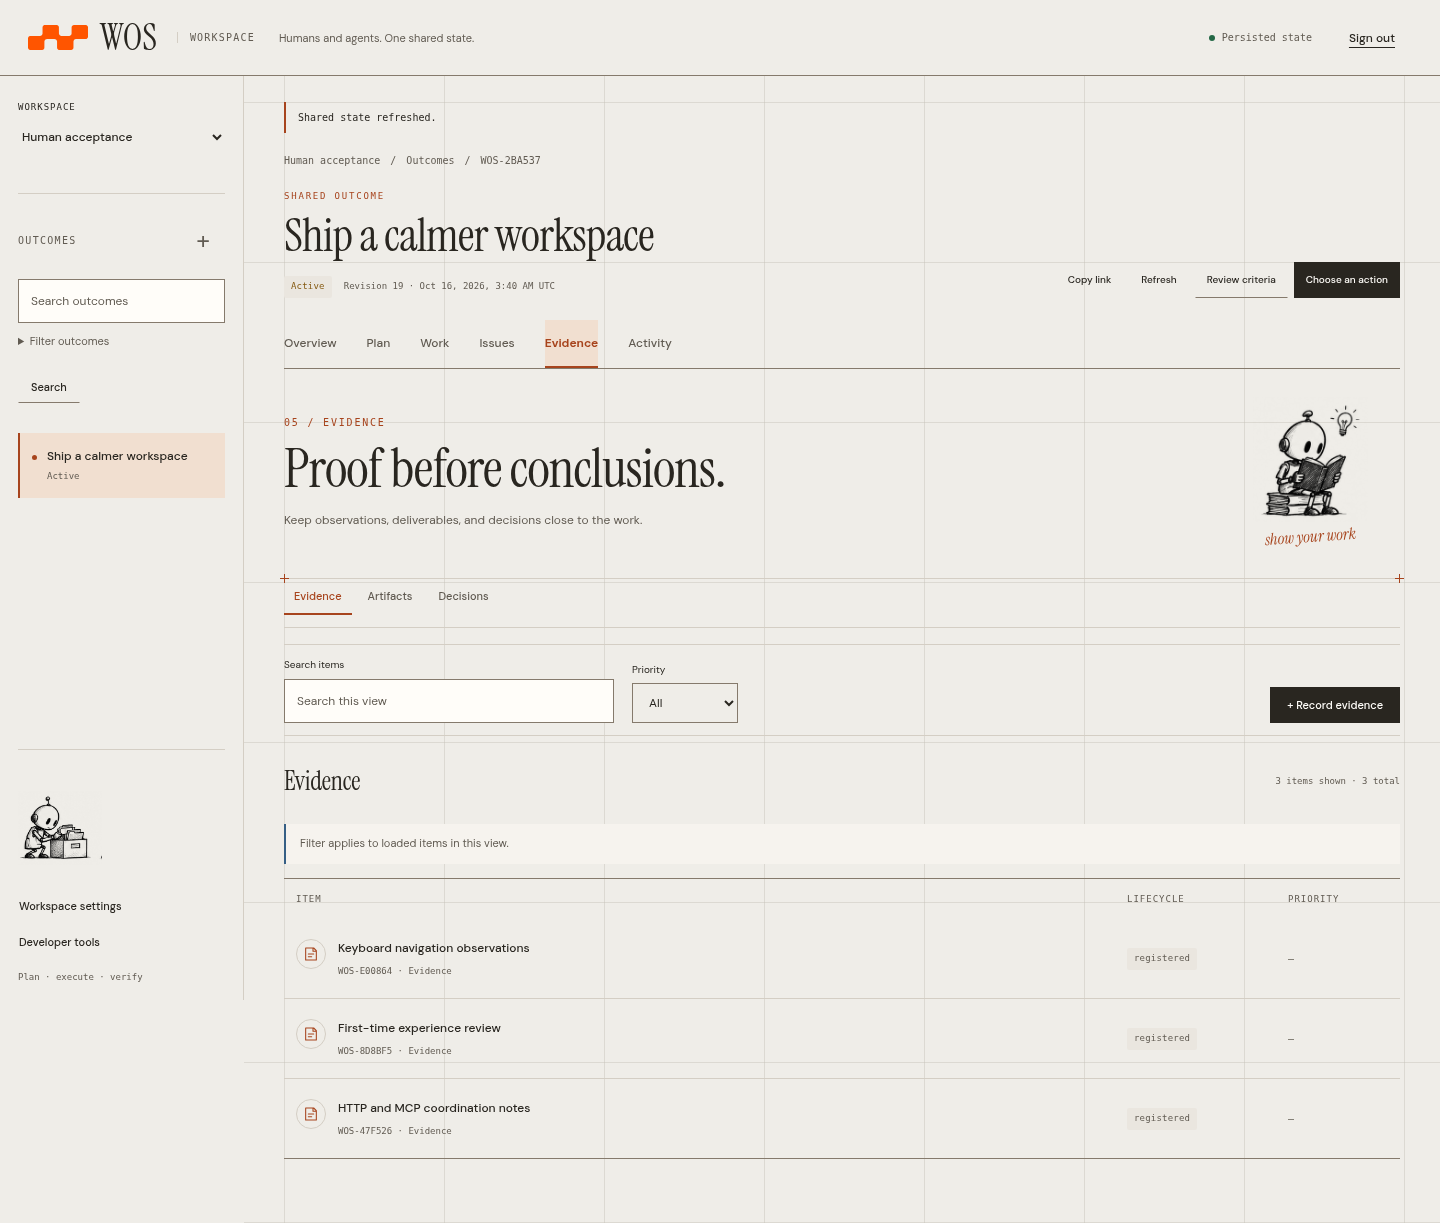
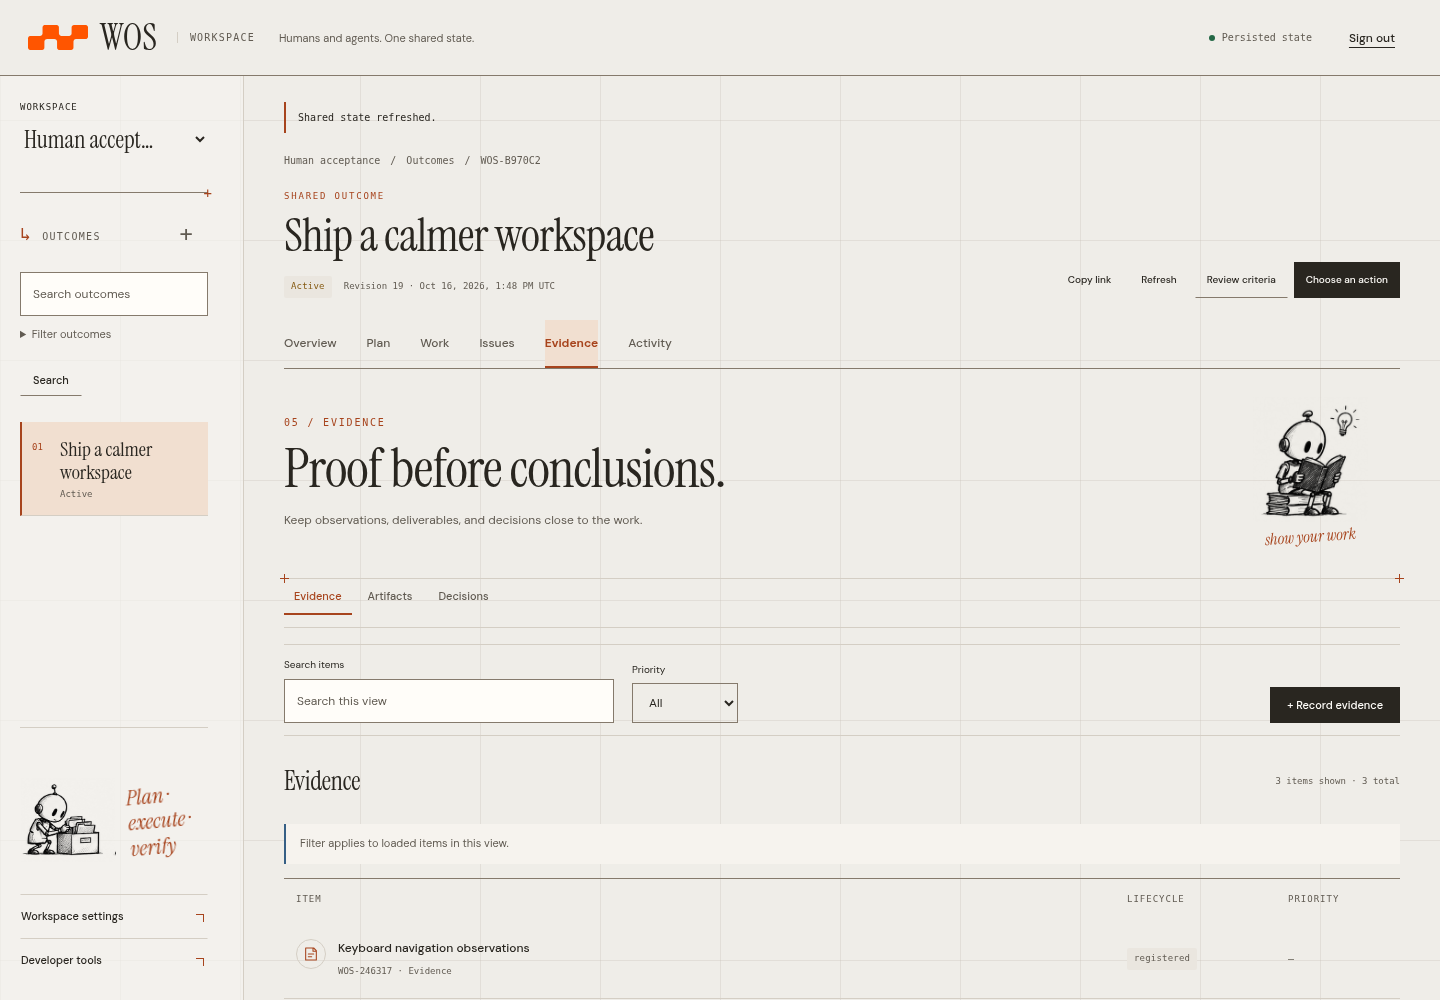
docs(design): refresh fixed-paper and sidebar captures

diff --git a/docs/design/editorial/validation.md b/docs/design/editorial/validation.md
@@ -1,6 +1,6 @@
 # Editorial workspace validation
 
-Validated locally on 2026-10-16 (America/Sao_Paulo), against a built native WOS server and isolated SQLite databases. Tooling: Go 1.27.2, Node 24.19.0, locked Playwright 1.62.1, and Chromium 154.0.8037.57 on Linux amd64.
+Validated locally on 2026-10-16 (UTC), against a built native WOS server and isolated SQLite databases. Tooling: Go 1.27.2, Node 24.19.0, locked Playwright 1.62.1, and Chromium 154.0.8037.57 on Linux amd64.
 
 ## Executed checks
 
@@ -8,7 +8,8 @@ Validated locally on 2026-10-16 (America/Sao_Paulo), against a built native WOS 
 | --- | --- | --- |
 | Native server build | Passed | `go build -p 4 -trimpath -o bin/wos ./packages/wos-api/cmd/wos`; embeds fonts, CSS, JS, grid, robots, and the WOS brand library |
 | Browser unit tests | 14 passed | Action permissions, exact-intent handling, official copy, and six-area routing; the locale gate now includes `editorial.js` |
-| Complete browser suite | 38 passed, no skips | Includes six editorial/palette/brand/component tests and the 32 existing browser journeys |
+| Complete browser suite | 39 passed, no skips | Includes seven editorial/palette/brand/component tests and the 32 existing browser journeys; the fixed-paper regression also passed after adding dialog-scroll coverage |
+| Fixed grid and sidebar | Passed | Compare visible paper pixels across 173 px of real scrolling at 1440/390 px widths; confirm content movement, stationary desktop sidebar, and document-relative reduced-motion fallback. Scroll a settings body without moving its grid. Select a long mobile Outcome by keyboard, then reach settings through a 15-Outcome desktop sidebar |
 | Woobe palette | Passed | All 25 Light color tokens match the supplied README; browser assertions cover canvas, copper text/focus, charcoal primary/hover, selection, success, warning, and error roles |
 | Supplied WOS brand | Passed | 94 media files preserved byte for byte; all 80 SVGs retain the master path. Browser checks verify the undistorted symbol and live WOS name in Instrument Serif regular, matching editorial headings at 1440/390/320 px. Exactly one on-page brand image is present, including during a pending read. All six area labels and the no-JavaScript product mention are checked. Declared SVG/PNG/ICO/Apple icons decode and the compatibility favicon matches |
 | Nested forms and complete controls | Passed | At 1440 × 1000, 390 × 844, 320 × 740, landscape 740 × 390, and 768 × 1024 with a 28 px root font: measure full border/focus clearance against the scrolling body, hit testing, footer overlap, outer-dialog scrolling, control height, and page width. Exercise selects, keyboard reference selection, expanded instructions, repeatable rows, date input, permission checkbox, credential text field, persistent actions, and real Task save/detail |
@@ -21,11 +22,11 @@ Validated locally on 2026-10-16 (America/Sao_Paulo), against a built native WOS 
 | Static analysis | Passed | `go vet -p 4` on the same three affected packages |
 | Skill package | Passed in the earlier setup run | `scripts/validate_package.py`: structure, 62 tokens, 10 study crops, internal links, token output, and package hashes; the package is unchanged in this refinement |
 | Git whitespace | Passed | `git diff --check` |
-| Main-page gallery | 18 actual captures | Refreshed main pages and pending read, plus expanded instructions, action menu, mobile Task form, and mobile settings; [gallery](README.md#main-pages) and [capture/source hashes](screenshots.json) |
+| Main-page gallery | 21 actual viewport captures | Refreshed main pages, pending read, expanded instructions, action menu, mobile Task form/settings, paired document-scroll states, and expanded mobile Outcome navigation; [gallery](README.md#main-pages) and [capture/source hashes](screenshots.json) |
 
 The gallery was generated by `editorial.spec.mjs` through public commands against a fresh database. It contains synthetic example titles and state, with no user credentials or external customer data. The chapter capture test checks loaded artwork and unexpected console/page errors. The signed-out namespace discovery's expected 401 is distinguished from an asset or application failure.
 
-The current gallery combines the approved editorial composition, Woobe Light colors, one supplied WOS symbol, and the owner's requested editorial typography for the name. The [component review](component-review.md) records the top-down analysis and clipping diagnosis. Page captures use full-page output; open dialogs use viewport captures so that the backdrop, body, and footer match the visible interface. The palette README is archived byte for byte in [woobe-palette-source.md](woobe-palette-source.md), with separate [brand provenance](brand-kit/README.md). Robot, brand, and font bytes remain unchanged. Build, the three targeted Go package tests, and vet were repeated after the component refinement. The broader Go suite below records the earlier complete run; it was not repeated for these presentation refinements.
+The current gallery combines the approved editorial composition, Woobe Light colors, one supplied WOS symbol, and the owner's requested editorial typography for the name. The [component review](component-review.md) records the top-down analysis, clipping diagnosis, and fixed-paper/sidebar follow-up. All captures use the actual viewport so the grid, sidebar, backdrop, body, and footer match the visible interface at that scroll position. The palette README is archived byte for byte in [woobe-palette-source.md](woobe-palette-source.md), with separate [brand provenance](brand-kit/README.md). Robot, brand, and font bytes remain unchanged. Build, the three targeted Go package tests, and vet were repeated after the grid/sidebar refinement. The broader Go suite below records the earlier complete run; it was not repeated for these presentation refinements.
 
 ## Broader Go suite: original baseline and CI repair
 
@@ -42,7 +43,7 @@ The subsequent CI repair requested by the owner isolates the test's virtual time
 
 ## Limits
 
-- The 38 browser tests passed together in the final component refinement run. An earlier stale-cursor test encountered a timing failure during the original redesign and then passed in isolation and subsequent complete runs; its assertions and production reference-picker logic were preserved.
+- The 39 browser tests passed together in the grid/sidebar refinement run. An earlier stale-cursor test encountered a timing failure during the original redesign and then passed in isolation and subsequent complete runs; its assertions and production reference-picker logic were preserved.
 - Chromium/Linux automation and the listed viewport matrix do not certify other browser engines, physical devices, production deployment, or PostgreSQL parity.
 - Screen-reader evaluation, representative-user review, visual approval by the owner, and full manual accessibility acceptance remain pending.
 - Authored text in other scripts uses system fallbacks; the vendored Latin fonts match the official English interface.

diff --git a/docs/design/editorial/README.md b/docs/design/editorial/README.md
@@ -8,7 +8,8 @@ This is a presentation change to the six existing areas, authentication screen, 
 
 | Element | Meaning and implementation | Small screens |
 | --- | --- | --- |
-| Paper and grids | Woobe canvas `#EFEDE8`, workspace `#F5F3EF`, surface `#FFFDF9`, and elevated surface `#FFFEFC`; continuous 160 px graphic grid `#C2BCB2`, independent of structural columns | Continuous paper and grid; connected sections become one ordered column |
+| Paper and grids | Woobe canvas `#EFEDE8`, workspace `#F5F3EF`, surface `#FFFDF9`, and elevated surface `#FFFEFC`; viewport-fixed 120 px graphic grid `#C2BCB2`, independent of structural columns | The same fixed paper under normal scrolling; connected sections become one ordered column |
+| Sidebar | Serif workspace selector and Outcome titles, decorative numbered entries, ruled selection, registration mark, and organizer robot with an italic note | Compact workspace selector and existing collapsible, horizontally scrolling Outcome navigation; the larger vignette stays on desktop |
 | Display | Instrument Serif, regular and italic; large on the login, restrained inside the operational workspace | Recomposed headlines that wrap; no horizontal type scaling |
 | Utility type | DM Sans variable for controls; system monospace for metadata | Relative font sizes; readable controls and visible focus |
 | Interaction | Copper `#A7441D` for links, relevant accents, and keyboard focus; selected surface `#F1DFD0` | Same roles, with explicit selected states |
@@ -19,7 +20,7 @@ This is a presentation change to the six existing areas, authentication screen, 
 | Robot vignettes | User-supplied monochrome pen-and-ink illustrations; each chapter has a relevant action | Smaller, reserved space alongside the introduction |
 | Marginal notes | Brief italic annotations attached to the illustrations | Remain decorative and outside control hit areas |
 | Forms and details | Gridded heading, small ink vignette, one scrolling body, persistent actions, complete control borders, and inset copper field focus | Related fields stack; close and save stay visible as nested content expands |
-| Motion | A small decorative arrival; content is visible in its final composition immediately | No parallax or pinned scrolling; reduced motion disables animation |
+| Motion | Content scrolls over a stationary grid; a small decorative arrival | Native scrolling without listeners or pinning; reduced motion makes the grid move with the document and disables animation |
 
 The application uses the grammar of the style rather than a literal chess theme. Its operational tables and forms keep their practical density. Instrument Serif is a deliberate font selection, not a claim about the unidentified font in the style reference.
 
@@ -37,7 +38,7 @@ The header combines the original orange symbol with WOS rendered as live Instrum
 
 ### Component refinement
 
-The [page-to-control review](component-review.md) records the clipping diagnosis and the revised hierarchy. The grid now spans the actual workspace and outer sign-in margins. Connected overview columns, registration marks, small form/settings vignettes, and ruled disclosures extend the style into working components. Command forms, settings, and detail drawers share a single scrolling content region between their heading and actions. Field labels and help use consistent spacing; related selects and permission checkboxes reflow as groups.
+The [page-to-control review](component-review.md) records the clipping diagnosis and the revised hierarchy. One fixed, non-interactive grid layer spans the page behind sign-in, workspace, and the translucent sidebar. Dialog backgrounds keep the same viewport alignment while their bodies scroll. Connected overview columns, registration marks, small form/settings vignettes, and ruled disclosures extend the style into working components. Command forms, settings, and detail drawers share a single scrolling content region between their heading and actions. Field labels and help use consistent spacing; related selects and permission checkboxes reflow as groups.
 
 Typography is served from the WOS binary. Vendored fonts are from `@fontsource/instrument-serif@5.3.0` and `@fontsource-variable/dm-sans@5.3.0`, distributed under the SIL Open Font License with notices in `packages/wos-api/web/assets/fonts/`. No browser request to a font service is required, and no production JavaScript package was added.
 
@@ -63,7 +64,7 @@ All these illustrations repeat a meaning already present in adjacent text and ha
 
 ## Main pages
 
-These 18 captures use a real local server and an isolated illustrative database. The demo's records are created through public commands. They are examples, not product metrics, customer evidence, or release certification. Desktop viewports are 1440 × 1000 CSS px and mobile viewports are 390 × 844. Pages use full-page output; open dialogs use viewport output to show their actual backdrop, scroll region, and persistent actions.
+These 21 captures use a real local server and isolated illustrative databases. The demo's records are created through public commands. They are examples, not product metrics, customer evidence, or release certification. Desktop viewports are 1440 × 1000 CSS px and mobile viewports are 390 × 844. All captures show the actual viewport, including fixed layers, scroll regions, and persistent actions. Pages continue below the captured opening view.
 
 ### Sign in
 
@@ -122,6 +123,16 @@ These 18 captures use a real local server and an isolated illustrative database.
 The observer vignette accompanies the existing pending server request. This capture holds that response in the test fixture; the application adds no deliberate waiting period.
 
 ![Observer robot during an actual pending Outcome read](screenshots/14-outcome-loading.png)
+
+### Fixed paper and editorial navigation
+
+These two viewport captures show the same workspace before and after scrolling 173 px. The content moves while the grid lines and desktop sidebar keep their viewport positions. The extra Outcomes are illustrative records, not invented product features. With reduced motion, the grid follows the document instead.
+
+| Before scrolling | After scrolling |
+| --- | --- |
+| ![Workspace at the top with three Outcomes and the editorial sidebar](screenshots/19-fixed-paper-top.png) | ![Workspace scrolled over the same stationary grid](screenshots/20-fixed-paper-scrolled.png) |
+
+![Expanded mobile Outcome navigation with a long title brought into view](screenshots/21-mobile-outcome-navigation.png)
 
 ## Reproduce and validate
 

diff --git a/docs/design/editorial/component-review.md b/docs/design/editorial/component-review.md
@@ -22,7 +22,8 @@ At page level, the graphic grid restarted inside the area introduction and disap
 | --- | --- | --- |
 | Global page | One WOS symbol with live Instrument Serif lettering in the header; browser icons retain the supplied brand | Workspace selection remains a labeled native select; it does not repeat the global symbol |
 | Sign-in | Continuous fine grid across the paper, including the outer margins; wider desktop composition | Existing native credential form and static/no-JavaScript narrative remain accessible |
-| Workspace | Continuous 160 px graphic grid under the full article | Structural columns organize content independently; controls retain opaque reading surfaces |
+| Workspace | Continuous viewport-fixed 120 px graphic grid behind the page | Structural columns organize content independently; controls retain opaque reading surfaces |
+| Sidebar | Serif workspace/Outcome names, decorative sequence numbers, ruled states, registration mark, and an organizer vignette with an italic note | Existing native selection/search and pressed-state semantics remain; mobile collapses its navigation and omits the large vignette; long lists retain their own scroll and reachable settings |
 | Area introduction | Number and actual area name, serif headline, relevant robot, italic marginal note, small registration crosses | Decorations remain outside hit areas; a rule connects the introduction to its data |
 | Overview | Connected editorial columns and a prominent desired-state passage; recent work spans the adjacent context/attention sections on desktop | The content uses actual counts and records; it becomes one ordered column at the existing breakpoint |
 | Collections | Ruled rows and a framed List/Board switch | Row focus stays inside the collection; list overflow no longer clips its focus outline |
@@ -36,10 +37,20 @@ At page level, the graphic grid restarted inside the area introduction and disap
 
 The main graphic grid is the existing original SVG, scaled consistently across the operational surface. Registration crosses are local CSS geometry. No new illustration, third-party component package, color system, or backend capability was introduced.
 
+## Fixed paper and sidebar follow-up
+
+The owner subsequently asked for the grid to stay stationary while any content moves over it, and for a more expressive `chess-style` sidebar. The page now has one `body::before` layer with `position: fixed`, isolated behind the content and excluded from pointer events. Transparent article backgrounds and a translucent Woobe workspace wash on the sidebar expose this shared sheet. The original 120 px SVG tile stays unmodified. Dialogs and their scroll bodies use viewport-anchored background images with the same tile origin. Opaque field/control surfaces preserve readability.
+
+This fixed behavior is an owner-requested implementation decision, not an assertion about motion in the skill's static reference images. No scroll listener, animation loop, artificial scrolling, or additional library is required. With `prefers-reduced-motion: reduce`, the page grid becomes document-relative and dialog backgrounds scroll locally; the existing animation/transition suppression remains.
+
+The sidebar acts as the notebook's working margin: serif names distinguish authored work from utility labels; numbered entries and rules establish order; the selected Outcome retains its copper rail, tinted surface, and `aria-pressed` state. Indices are decorative and hidden from assistive technology. The original organizer robot and existing “Plan · execute · verify” note form one reserved composition above real settings actions. Mobile retains the native workspace selector and collapse button, horizontal Outcome navigation, and touch-sized settings controls. It omits the larger drawing/note to keep the working area available.
+
 ## Verification
 
 The browser regression traverses the form's nested structure at 1440 × 1000, 390 × 844, 320 × 740, landscape 740 × 390, and 768 × 1024 with a doubled 28 px root font. It selects priority/state, expands instructions and Advanced, adds an instruction, selects an authorized Objective with the keyboard, focuses the native date field, and saves a real Task. The resulting detail must retain the authored instruction.
 
 Focused controls are measured against their **scroll ancestor**, including their visible border/focus clearance, rather than only against the viewport. The test checks occlusion, footer overlap, extra outer-dialog scrolling, minimum control height, and page overflow. Settings checks cover its operation select, a permission checkbox at the end of the list, persistent save action, and the credential form's text field. Existing browser journeys cover checkbox submission, roadmap reordering, external context, conflicts, uncertain-response retries, reference authorization/pagination, signed independent review, and keyboard focus restoration.
 
-See [the executed validation record](validation.md) and [updated gallery](README.md#main-pages). Dialog captures use the viewport so that the backdrop and action footer represent what the user actually sees; page captures retain full-page output. Automated Chromium checks and visual inspection do not replace manual screen-reader or other-engine acceptance.
+The fixed-paper regression compares actual screenshot pixels in an unobstructed paper margin before and after 173 px of document scrolling at 1440 and 390 px widths. A shifted sample proves the comparison contains visible grid lines; geometry independently confirms that content moved and the desktop sidebar stayed in place. Reduced-motion checks verify that the paper then moves with the document. A dialog-body scroll also preserves the paper sample. The same journey selects a long mobile Outcome title with the keyboard and opens settings after scrolling a 15-Outcome desktop sidebar.
+
+See [the executed validation record](validation.md) and [updated gallery](README.md#main-pages). Every capture now uses the actual viewport so that the fixed grid, sidebar, backdrop, and action footer represent what the user sees at that scroll position. Automated Chromium checks and visual inspection do not replace manual screen-reader or other-engine acceptance.
